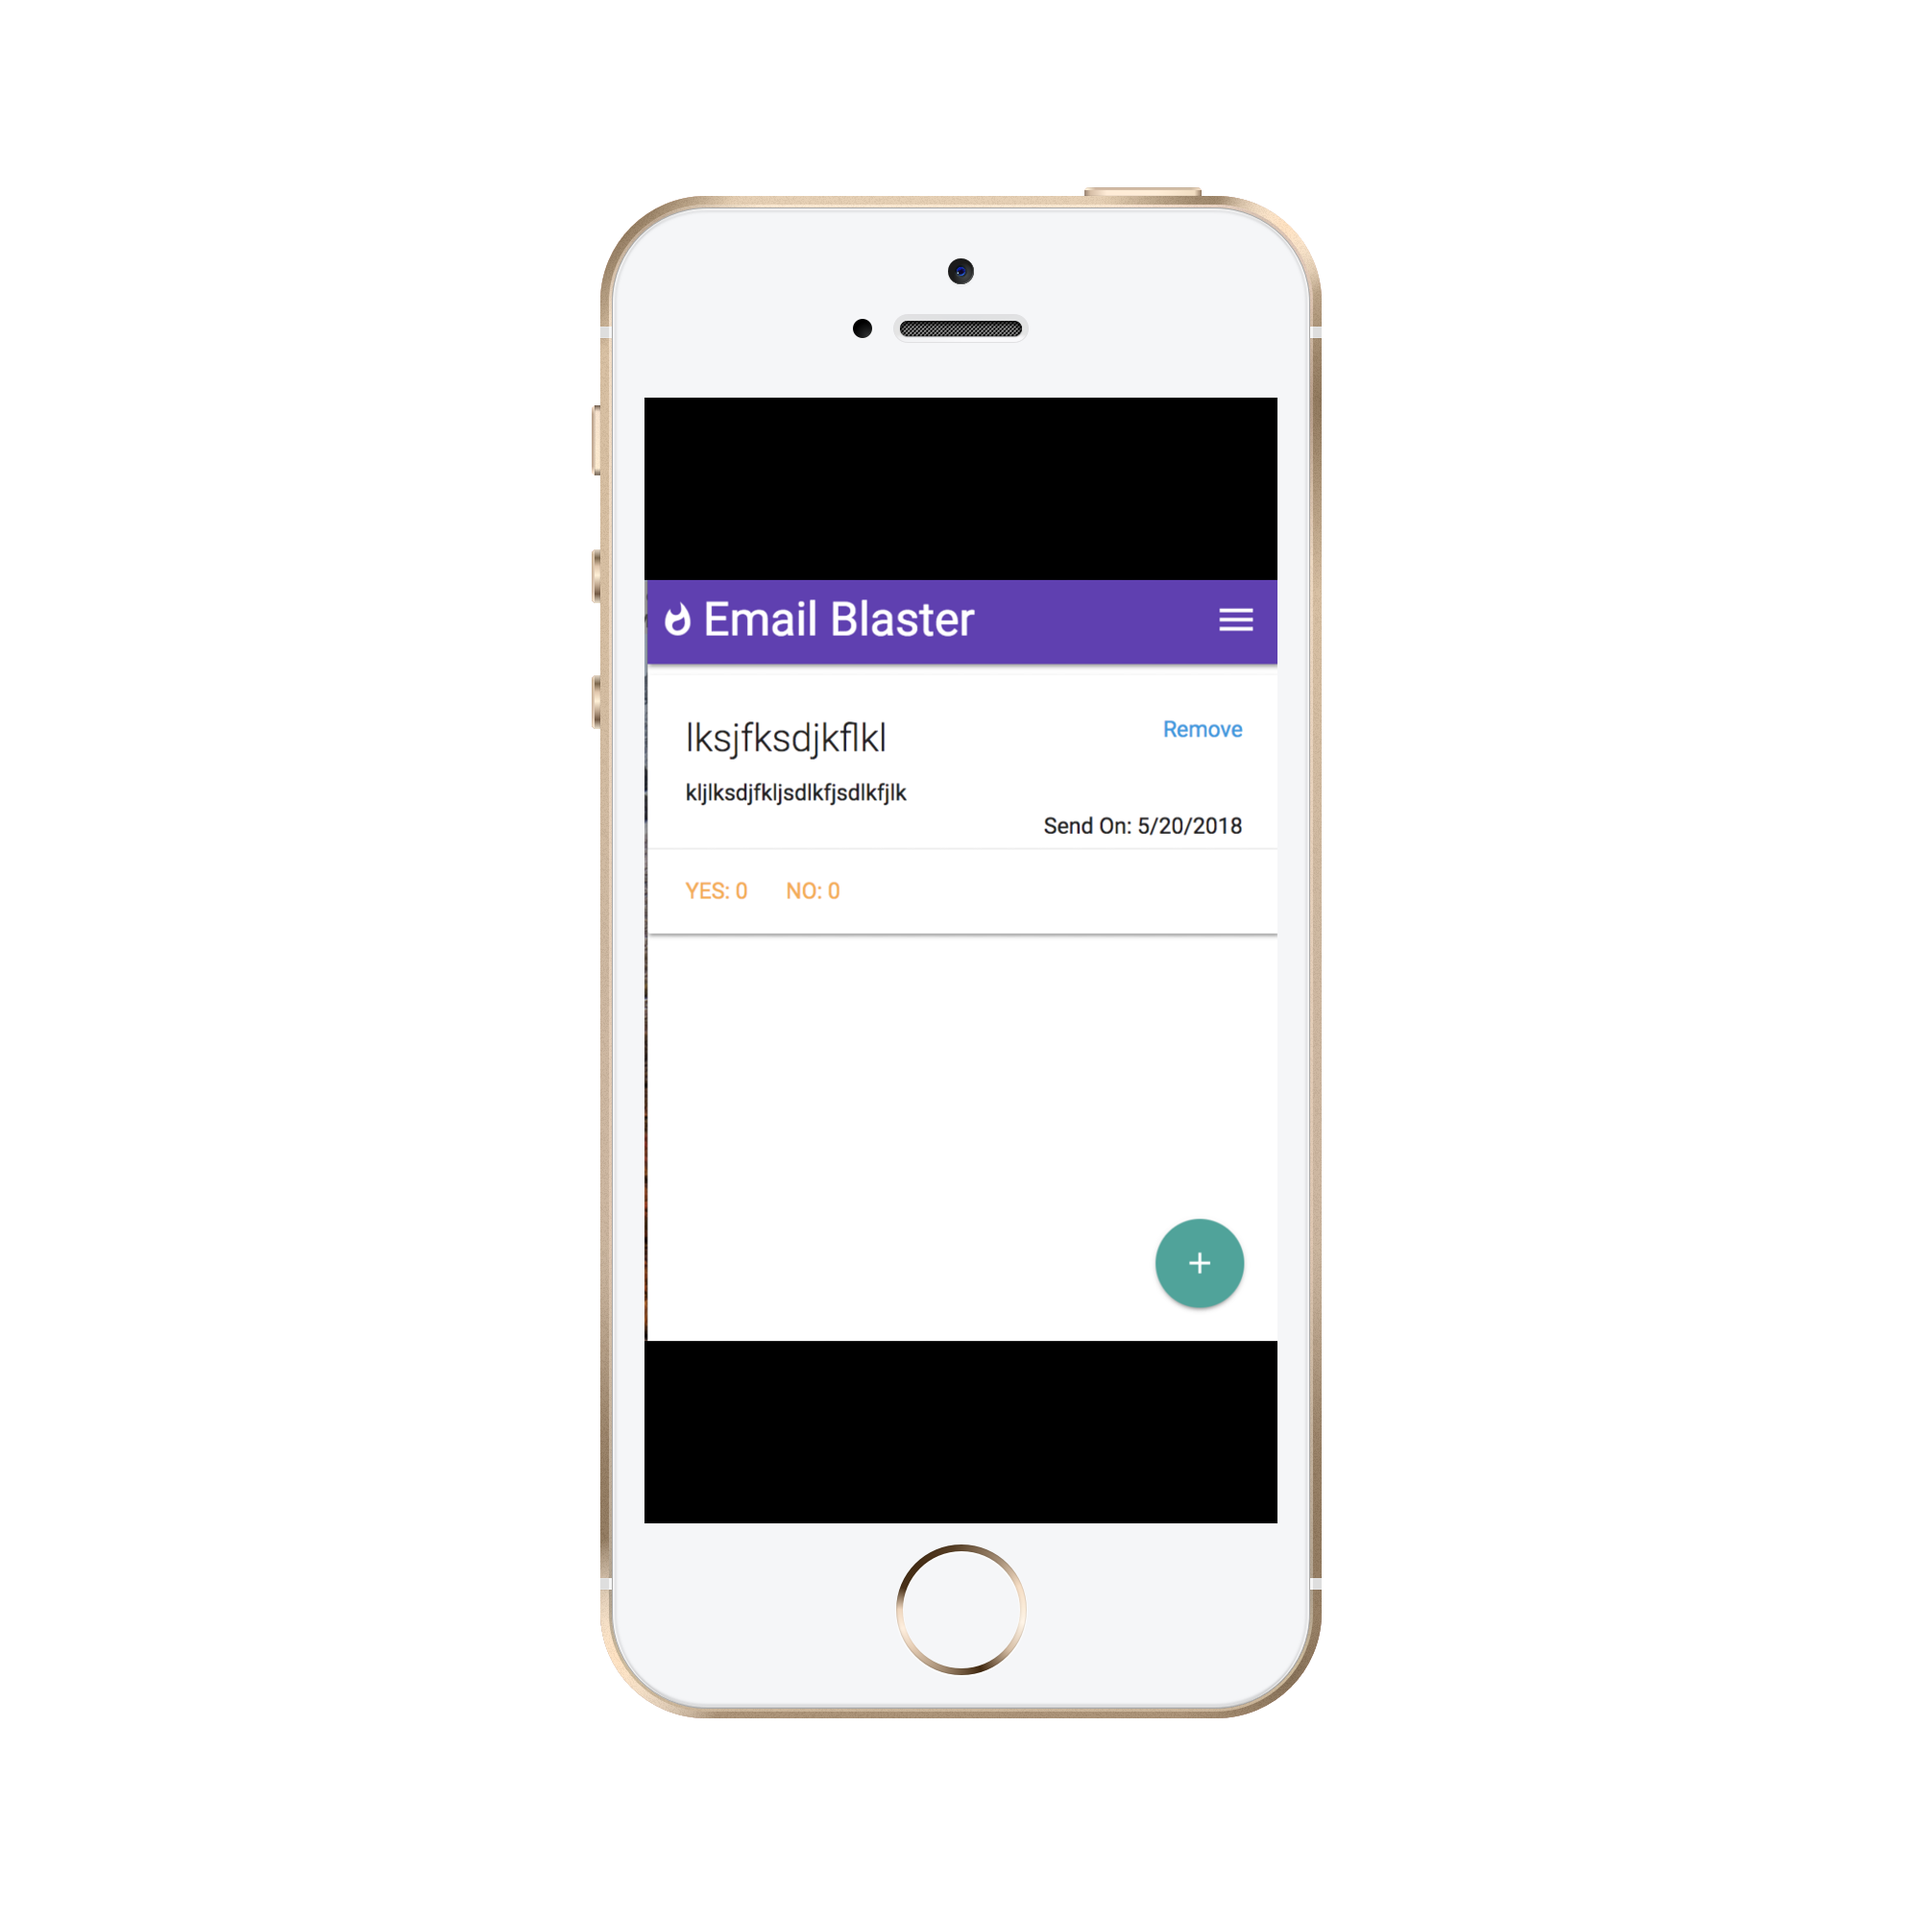
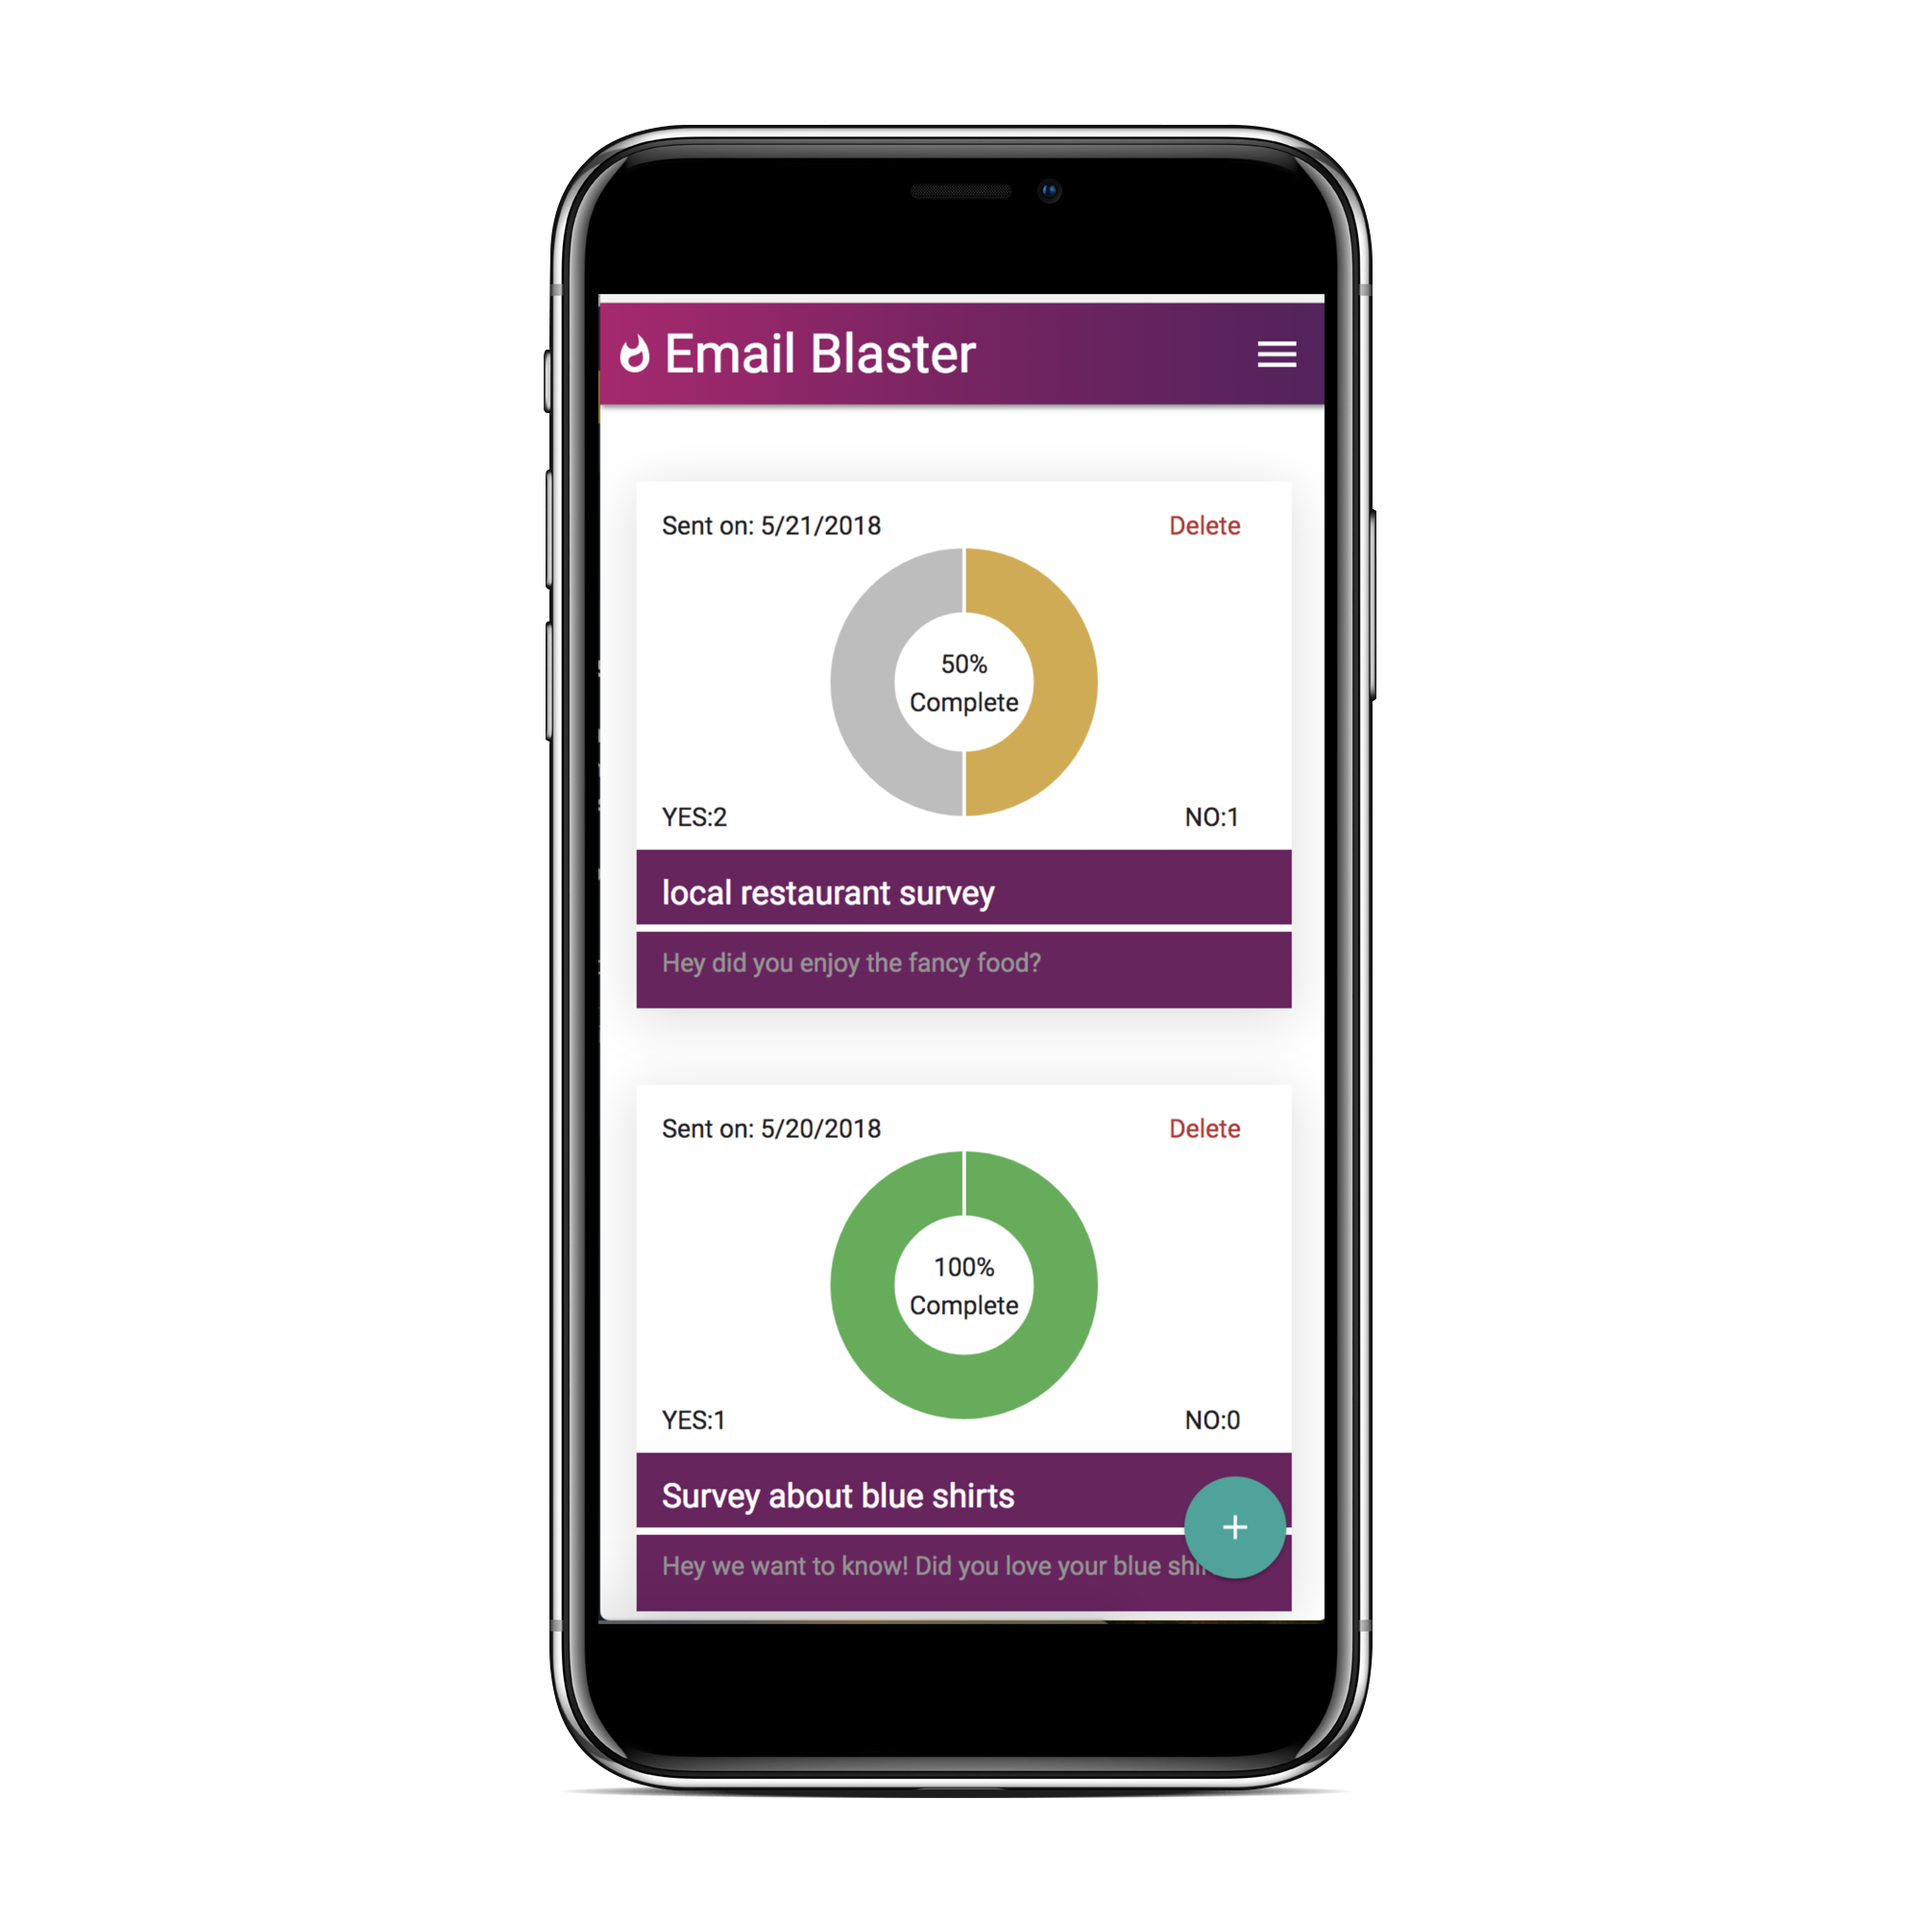
added search functionality updated styling, error handling

Changed region(s): [[0.279, 0.062, 0.744, 0.961]]

diff --git a/client/src/components/surveys/SurveyList.js b/client/src/components/surveys/SurveyList.js
@@ -1,8 +1,10 @@
 import React, { Component } from 'react';
 import { connect } from 'react-redux';
-import { fetchSurveys, deleteSurvey } from '../../actions';
+import { fetchSurveys, deleteSurvey, searchSurveys } from '../../actions';
 import BarChart from './BarChart';
 import DonutGraph from './DonutGraph';
+import SurveySearch from './SurveySearch';
+
 class SurveyList extends Component {
 	componentDidMount() {
 		this.props.fetchSurveys();
@@ -14,7 +16,6 @@ class SurveyList extends Component {
 	}
 	renderSurveys() {
 		return this.props.surveys
-
 			.reverse()
 			.map(
 				({
@@ -30,12 +31,12 @@ class SurveyList extends Component {
 					let last = lastResponded
 						? new Date(lastResponded).toLocaleDateString()
 						: 'N/A';
-
 					let responded = yes + no;
 					let totalSent = recipients.length - responded;
 					let percentage = responded / recipients.length * 100;
+					let color = percentage > 75 ? '#4caf50' : '#d6aa43';
 					return (
-						<div className="survey-card-container">
+						<div key={_id} className="survey-card-container">
 							<span className="left sent">
 								Sent on: {new Date(dateSent).toLocaleDateString()}
 							</span>
@@ -49,8 +50,8 @@ class SurveyList extends Component {
 									data={[
 										{
 											value: responded,
-											color: '#d6aa43',
-											highlight: '#f1bf4b',
+											color: color,
+											highlight: color,
 											label: 'Responded'
 										},
 										{
@@ -87,7 +88,15 @@ class SurveyList extends Component {
 			);
 	}
 	render() {
-		return <div className="surveys-list">{this.renderSurveys()}</div>;
+		return (
+			<div className="surveys-list">
+				<SurveySearch
+					search={this.props.searchSurveys}
+					surveyList={this.props.surveys}
+				/>
+				{this.renderSurveys()}
+			</div>
+		);
 	}
 }
 
@@ -96,6 +105,8 @@ function mapStateToProps({ surveys }) {
 		surveys
 	};
 }
-export default connect(mapStateToProps, { fetchSurveys, deleteSurvey })(
-	SurveyList
-);
+export default connect(mapStateToProps, {
+	fetchSurveys,
+	deleteSurvey,
+	searchSurveys
+})(SurveyList);

diff --git a/client/src/components/Dashboard.js b/client/src/components/Dashboard.js
@@ -1,18 +1,58 @@
-import React from 'react';
-import { Link } from 'react-router-dom';
+import React, { Component } from 'react';
+import { Link, withRouter } from 'react-router-dom';
+import { connect } from 'react-redux';
 import SurveyList from './surveys/SurveyList';
+import Error from './Error';
 
-const Dashboard = () => {
-	return (
-		<div>
-			<div className="fixed-action-btn">
-				<Link to="/surveys/new" className="btn-floating btn-large">
-					<i className="material-icons">add</i>
-				</Link>
-			</div>
-			<SurveyList />
-		</div>
-	);
-};
-
-export default Dashboard;
+class Dashboard extends Component {
+	state = {
+		error: false
+	};
+	cancelError = () => {
+		this.setState({ error: false });
+	};
+	handleRedirect = () => {
+		if (this.props.user.credits !== 0) {
+			this.props.history.push('/surveys/new');
+		} else {
+			console.log('setting error to true');
+			this.setState({ error: true });
+		}
+	};
+	renderDashboard() {
+		if (this.state.error) {
+			return (
+				<div>
+					<Error cancel={this.cancelError} />
+					<div className="fixed-action-btn">
+						<a onClick={this.handleRedirect} className="btn-floating btn-large">
+							<i className="material-icons">add</i>
+						</a>
+					</div>
+					<SurveyList />
+				</div>
+			);
+		} else {
+			return (
+				<div>
+					<div className="fixed-action-btn">
+						<a onClick={this.handleRedirect} className="btn-floating btn-large">
+							<i className="material-icons">add</i>
+						</a>
+					</div>
+					<SurveyList />
+				</div>
+			);
+		}
+	}
+	render() {
+		console.log(this.state);
+		return <div>{this.renderDashboard()}</div>;
+	}
+}
+function mapStateToProps(state) {
+	return {
+		user: state.auth
+	};
+}
+export default connect(mapStateToProps)(withRouter(Dashboard));

diff --git a/client/src/styles/main.css b/client/src/styles/main.css
@@ -208,6 +208,7 @@
   margin-right: 2rem;
   margin-top: 1rem;
   color: #c32b2b;
+  cursor: pointer;
 }
 
 .sent {
@@ -268,6 +269,64 @@
 .tracker-sub {
   display: block;
   margin-top: 1rem;
+}
+
+/* SEARCH FORM */
+
+.search-form {
+  position: relative;
+}
+
+#search {
+  position: relative;
+  width: 80%;
+  margin: 0 auto;
+  display: block;
+  margin-top: 3rem;
+  border: 1px solid black;
+  text-indent: 10px;
+}
+
+.search-icon {
+  position: absolute;
+  top: 7px;
+  right: 48px;
+  font-size: 2rem;
+}
+
+/* ERROR MESSAGE */
+
+.error-modal {
+  position: fixed;
+  top: 0;
+  left: 0;
+  width: 100%;
+  height: 100%;
+  background-color: #c1bebebd;
+  z-index: 3;
+}
+
+.error-message {
+  position: fixed;
+  top: 50%;
+  left: 50%;
+  width: 80%;
+  height: 300px;
+  margin-top: -150px;
+  margin-left: -40%;
+  z-index: 4;
+  background: white;
+  box-shadow: 0 0 2px black;
+  border-radius: 7px;
+  text-align: center;
+}
+
+.error-message h3 {
+  margin-top: 5rem;
+}
+
+.cancel-error {
+  margin-left: 1rem;
 }
 
 @media (min-width: 700px) {

diff --git a/client/src/actions/index.js b/client/src/actions/index.js
@@ -1,5 +1,5 @@
 import axios from 'axios';
-import { FETCH_USER, FETCH_SURVEYS } from './types';
+import { FETCH_USER, FETCH_SURVEYS, SEARCH_SURVEYS } from './types';
 
 // export const fetchUser = () => {
 //   return function(dispatch) {
@@ -30,9 +30,18 @@ export const submitSurveys = (values, history) => async dispatch => {
 	// history.push('/surveys');
 	dispatch({ type: FETCH_USER, payload: res.data });
 };
+export const searchSurveys = query => async dispatch => {
+	let res;
+	if (query.query !== '') {
+		res = await axios.post('/api/search', query);
+	} else {
+		res = await axios.get('/api/surveys');
+	}
+
+	dispatch({ type: FETCH_SURVEYS, payload: res.data });
+};
 
 export const fetchSurveys = () => async dispatch => {
 	const res = await axios.get('/api/surveys');
-	console.log('fetchSurveys response', res.data);
 	dispatch({ type: FETCH_SURVEYS, payload: res.data });
 };

diff --git a/client/src/components/surveys/SurveySearch.js b/client/src/components/surveys/SurveySearch.js
@@ -1,0 +1,31 @@
+import React, { Component } from 'react';
+
+// class SurveySearch extends Component {
+// 	handleSearch(e) {
+// 		console.log(e.target.value);
+// 	}
+// 	render() {
+//
+// 	}
+// }
+const SurveySearch = ({ search, surveyList }) => {
+	const handleSearch = function(e) {
+		let searchTerm = document.getElementById('search').value;
+		search({ query: searchTerm });
+	};
+	return (
+		<div className="search-container">
+			<form className="search-form">
+				<i className="material-icons search-icon">search</i>
+				<input
+					id="search"
+					onKeyUp={() => handleSearch()}
+					type="text"
+					placeholder="Search"
+				/>
+			</form>
+		</div>
+	);
+};
+
+export default SurveySearch;

diff --git a/routes/surveyRoutes.js b/routes/surveyRoutes.js
@@ -84,6 +84,15 @@ module.exports = app => {
 			_id: surveyId
 		}).exec();
 	});
+	//search Surveys!
+	app.post('/api/search', requireLogin, async (req, res) => {
+		const surveys = await Survey.find({
+			_user: req.user.id,
+			$text: { $search: req.body.query }
+		});
+		console.log(surveys);
+		res.send(surveys);
+	});
 
 	//Create our survey instance and send out a big email!
 	app.post('/api/surveys', requireLogin, enoughCredits, async (req, res) => {
@@ -97,7 +106,6 @@ module.exports = app => {
 			_user: req.user.id,
 			dateSent: Date.now()
 		});
-
 		//Great place to send an email!
 		const mailer = new Mailer(survey, surveyTemplate(survey));
 		//error handling

diff --git a/client/src/components/surveys/SurveyDashboardSummary.js b/client/src/components/surveys/SurveyDashboardSummary.js
@@ -1,0 +1,28 @@
+import React from 'react';
+import DonutGraph from './DonutGraph';
+const SurveyDashboardSummary = () => {
+	return (
+		<div className="summary-container">
+			<div className="summary-graph-container">
+				<DonutGraph
+					data={[
+						{
+							value: 23,
+							color: 'black',
+							highlight: 'black',
+							label: 'Completed'
+						},
+						{
+							value: 10,
+							color: '#a5a3a3',
+							highlight: '#bdbdbd',
+							label: 'Not Complete'
+						}
+					]}
+				/>
+			</div>
+		</div>
+	);
+};
+
+export default SurveyDashboardSummary;

diff --git a/client/src/components/surveys/DonutGraph.js b/client/src/components/surveys/DonutGraph.js
@@ -34,7 +34,13 @@ class DonutGraph extends Component {
 			legendTemplate:
 				'<ul class="<%=name.toLowerCase()%>-legend"><% for (var i=0; i<segments.length; i++){%><li><span style="background-color:<%=segments[i].fillColor%>"><%if(segments[i].label){%><%=segments[i].label%><%}%></span></li><%}%></ul>'
 		};
-		return <DoughnutChart data={this.props.data} options={chartOptions} />;
+		return (
+			<DoughnutChart
+				className="donut-graph"
+				data={this.props.data}
+				options={chartOptions}
+			/>
+		);
 	}
 }
 

diff --git a/client/src/components/Error.js b/client/src/components/Error.js
@@ -1,0 +1,18 @@
+import React from 'react';
+import Payments from './Payments';
+const Error = ({ cancel }) => {
+	return (
+		<div className="error-container">
+			<div className="error-modal" />
+			<div className="error-message">
+				<h3>OUT OF CREDITS!</h3>
+				<Payments />
+				<span onClick={() => cancel()} className="btn red cancel-error">
+					Nope
+				</span>
+			</div>
+		</div>
+	);
+};
+
+export default Error;

diff --git a/client/src/reducers/surveysReducer.js b/client/src/reducers/surveysReducer.js
@@ -1,8 +1,11 @@
-import { FETCH_SURVEYS } from '../actions/types';
+import { FETCH_SURVEYS, SEARCH_SURVEYS } from '../actions/types';
 
 export default function(state = [], action) {
 	switch (action.type) {
 		case FETCH_SURVEYS:
+			return action.payload;
+			break;
+		case SEARCH_SURVEYS:
 			return action.payload;
 		default:
 			return state;

diff --git a/client/src/components/surveys/SurveyNew.js b/client/src/components/surveys/SurveyNew.js
@@ -1,5 +1,6 @@
 import React, { Component } from 'react';
 import { reduxForm } from 'redux-form';
+import { connect } from 'react-redux';
 import SurveyForm from './SurveyForm';
 import SurveyFormReview from './SurveyFormReview';
 import SurveyComplete from './SurveyComplete';

diff --git a/models/Survey.js b/models/Survey.js
@@ -13,6 +13,6 @@ const surveySchema = new Schema({
 	_user: { type: Schema.Types.ObjectId, ref: 'User' },
 	dateSent: Date,
 	lastResponded: Date
-});
+}).index({ title: 'text' });
 
 mongoose.model('surveys', surveySchema);
